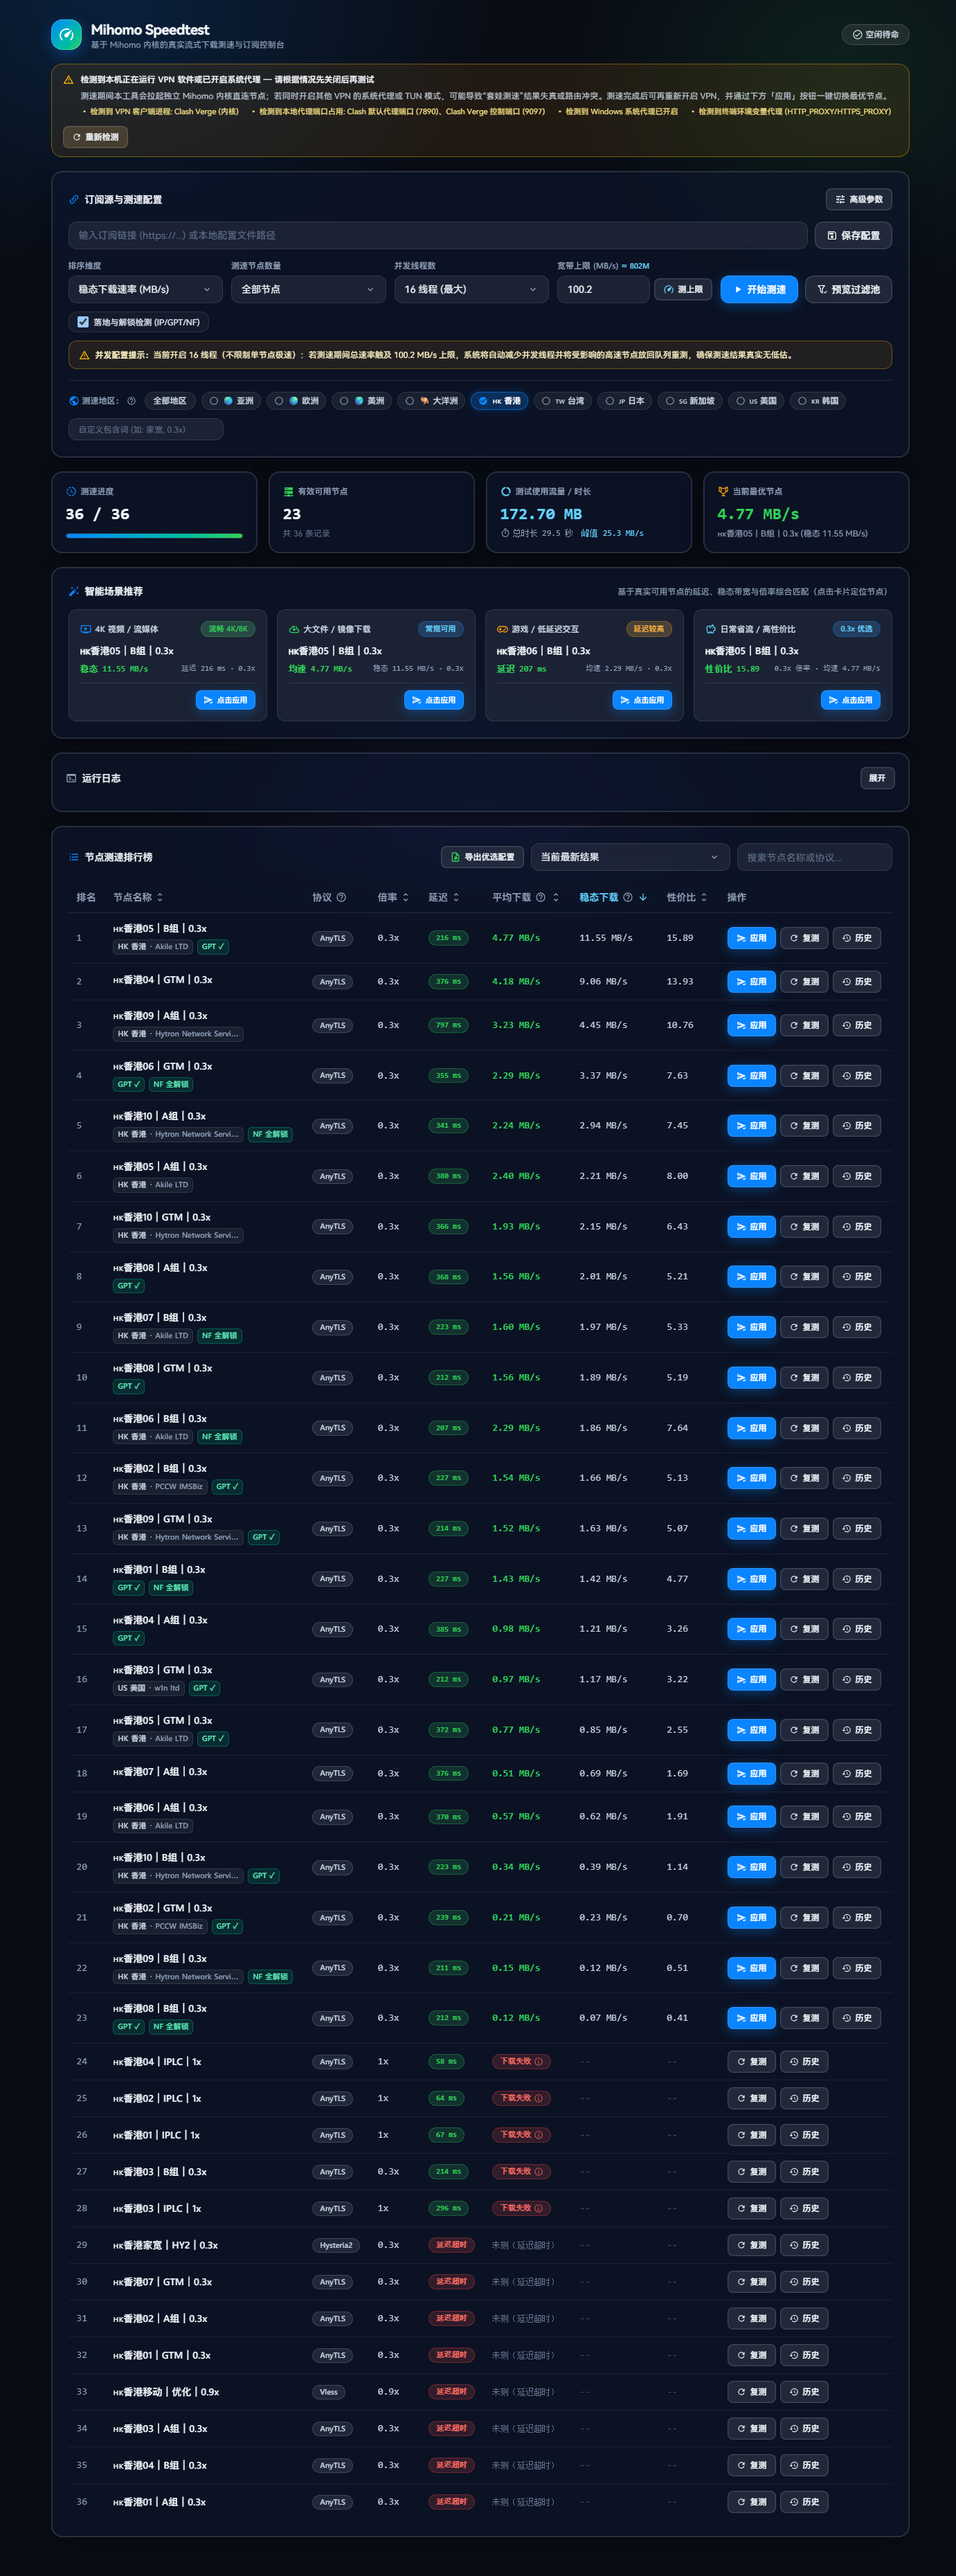
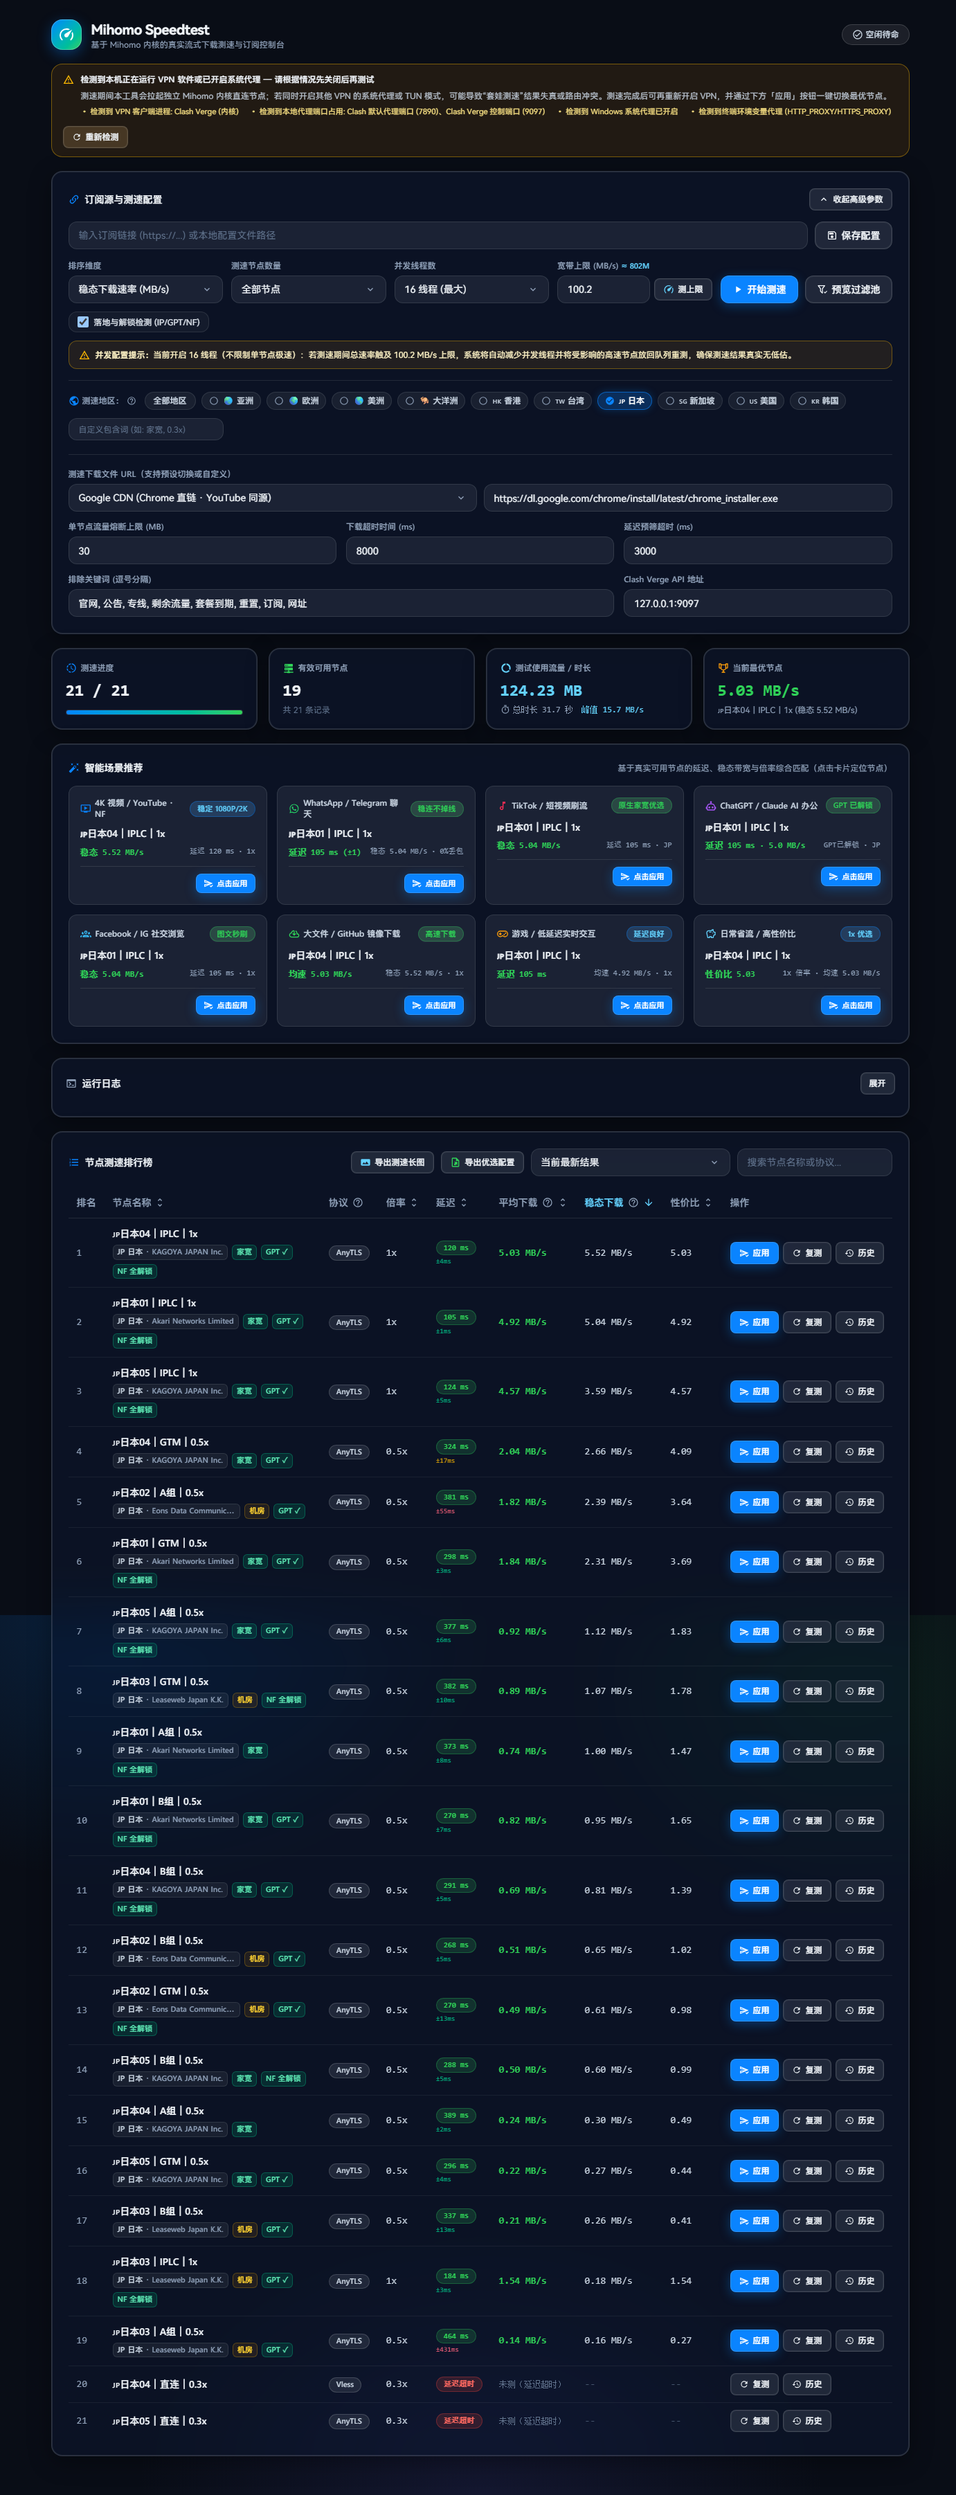
docs: 更新新版控制台与测速长图预览

diff --git a/README.md b/README.md
@@ -34,7 +34,11 @@
 
 ## 界面预览
 
+### Web 控制台总览
 ![Mihomo Speedtest 界面预览](docs/images/preview.png)
+
+### 一键导出排行榜测速长图（2x DPI PNG）
+![一键导出排行榜测速长图](docs/images/leaderboard_export.jpg)
 
 ---
 
